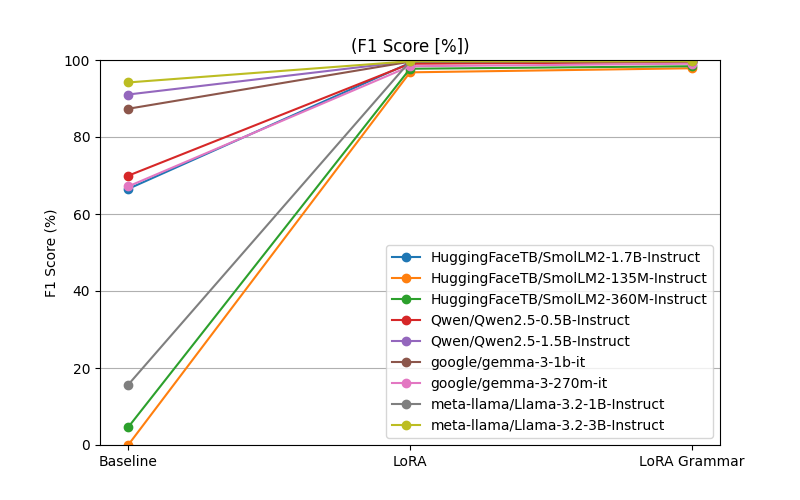
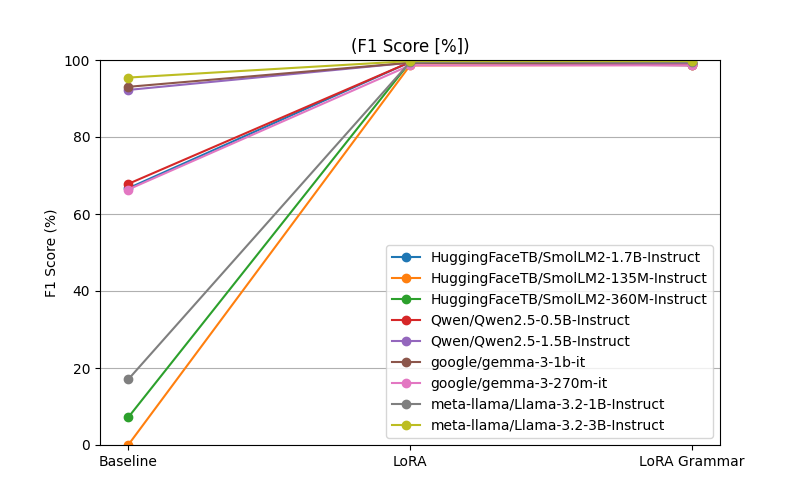
added new results

Changed region(s): [[0.1562, 0.12, 0.875, 0.87]]

diff --git a/Readme.md b/Readme.md
@@ -6,10 +6,10 @@ This project focuses on training very small generative models, ranging from 3B t
 
 Guardrails in scope:
 - Is user's question in scope.
+- Is model's answer aligned with code of conduct.
 - Is models' answer in scope.
 - Is generated code/command harmfull.
 - Are external data harmfull.
-- Is model's answer aligned with code of conduct.
 
 Used base models:
 | Author        | Model                          | Parameters |
@@ -28,25 +28,36 @@ Used base models:
 
 ## Guardrail: Is user's question in scope
 
-Baseline results:
-| Model               | F1 Score |
-|---------------------|----------|
-| GPT-4o-mini         | 98%     |
-| DeepSeek-V4-Flash   | 69%     |
-| Gemini 3.1 Flash Lite | 98%   |
+- Benchmark for 712 questions:
+    - 358 out of scope
+    - 354 in scope
 
-Preliminary results:
-| Model                               |   Base |    LoRA |   LoRA+Grammar |   FN |
-|:------------------------------------|-----------:|--------:|---------------:|------------------:|
-| HuggingFaceTB/SmolLM2-1.7B-Instruct |   66.5 | 99.2 |        99.5 |                 2 |
-| HuggingFaceTB/SmolLM2-135M-Instruct |    0   | 96.7 |        97.8 |                 4 |
-| HuggingFaceTB/SmolLM2-360M-Instruct |    4.6 | 97.7 |        98.3 |                 5 |
-| Qwen/Qwen2.5-0.5B-Instruct          |   69.9 | 99.0 |        99.4 |                 2 |
-| Qwen/Qwen2.5-1.5B-Instruct          |   91.0 | 99.6 |        99.8 |                 1 |
-| google/gemma-3-1b-it                |   87.3 | 99.5 |        99.6 |                 2 |
-| google/gemma-3-270m-it              |   67.1 | 98.3 |        99.0 |                 1 |
-| meta-llama/Llama-3.2-1B-Instruct    |   15.6 | 99.6 |        99.6 |                 1 |
-| meta-llama/Llama-3.2-3B-Instruct    |   94.1 | 99.6 |        99.6 |                 3 |
+### Baseline results:
+| Model                 |   F1 | FN |
+|:----------------------|-----------:|---:|
+| GPT-4o-mini           |    98.8 |  1 |
+| Gemini 3.1 Flash Lite |    98.4 |  11|
+| DeepSeek-V4-Flash     |    69.7 | 102|
+
+- *Note: Baseline results could be improved by further prompt-engineering.*
+- *Note2: DeepSeek did not fully followed prompt and did not produced expected response*
+
+### Preliminary results:
+| Model                               |   Base |   LoRA |   LoRA Grammar |    FN |
+|:------------------------------------|-----------:|-------:|---------------:|------------------:|
+| HuggingFaceTB/SmolLM2-1.7B-Instruct |      66.67 |  99.44 |          99.3  |                 1 |
+| HuggingFaceTB/SmolLM2-135M-Instruct |       0    |  98.58 |          98.73 |                 6 |
+| HuggingFaceTB/SmolLM2-360M-Instruct |       7.16 |  99.44 |          99.3  |                 1 |
+| Qwen/Qwen2.5-0.5B-Instruct          |      67.81 |  99.44 |          99.3  |                 2 |
+| Qwen/Qwen2.5-1.5B-Instruct          |      92.22 |  99.3  |          99.3  |                 0 |
+| google/gemma-3-1b-it                |      93.03 |  99.3  |          98.59 |                 5 |
+| google/gemma-3-270m-it              |      66.35 |  98.61 |          98.61 |                 0 |
+| meta-llama/Llama-3.2-1B-Instruct    |      17.02 |  99.44 |          99.44 |                 0 |
+| meta-llama/Llama-3.2-3B-Instruct    |      95.44 |  99.72 |          99.72 |                 0 |
+
+| Model                               |   Base |   FFT |
+|:------------------------------------|-----------:|-------:|
+| HuggingFaceTB/SmolLM2-135M-Instruct |      0 |  91.86 |
 
 ![benchmark_training1](imgs/Benchmark_in_scope_input.png)
 
@@ -93,6 +104,9 @@ Any question about keyboard was in scope as chatbot could offer product to the c
 ## Model Fine-Tuning
 
 All models have been fine-tuned using PEFT (Parameter-Efficient Fine-Tuning) with LoRA. Additionally, the smallest model, `SmolLM2-135M`, was trained using FFT (Full Parameter Fine-Tuning).
+
+Training dataset consists of:
+- **Case: User's query in scope** (2000 questions, 50/50 split)
 
 ### False-Negative Punishments
 